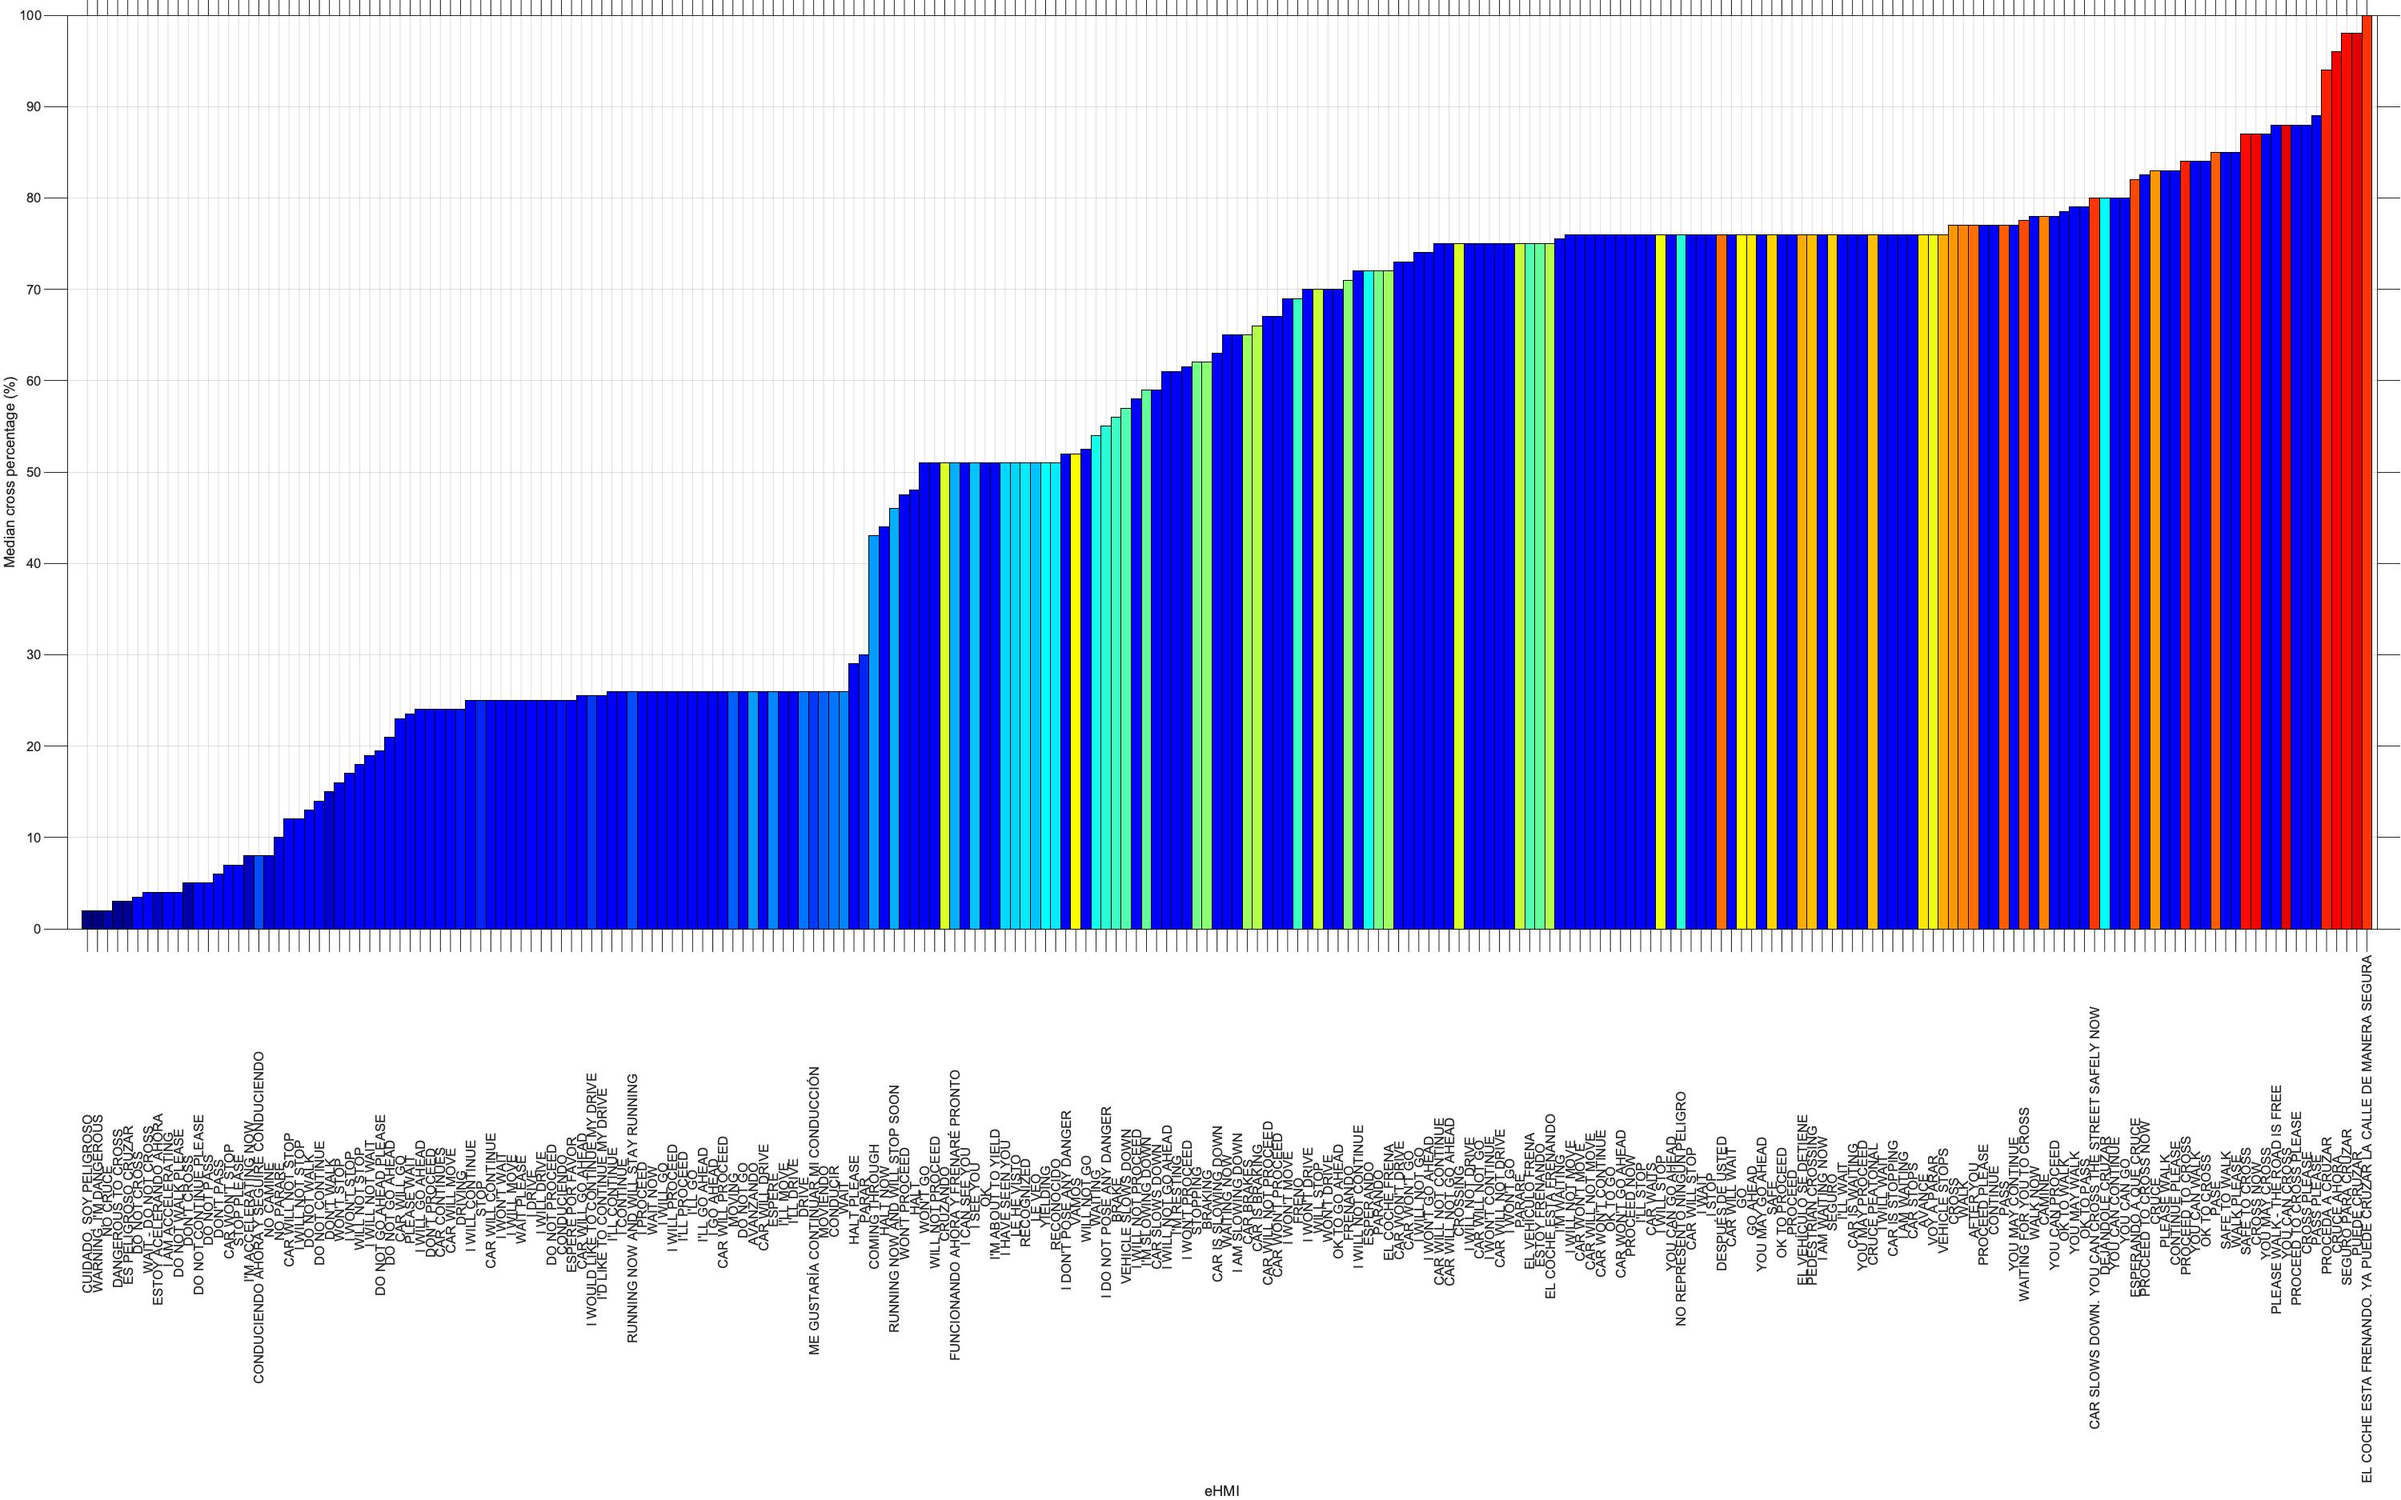
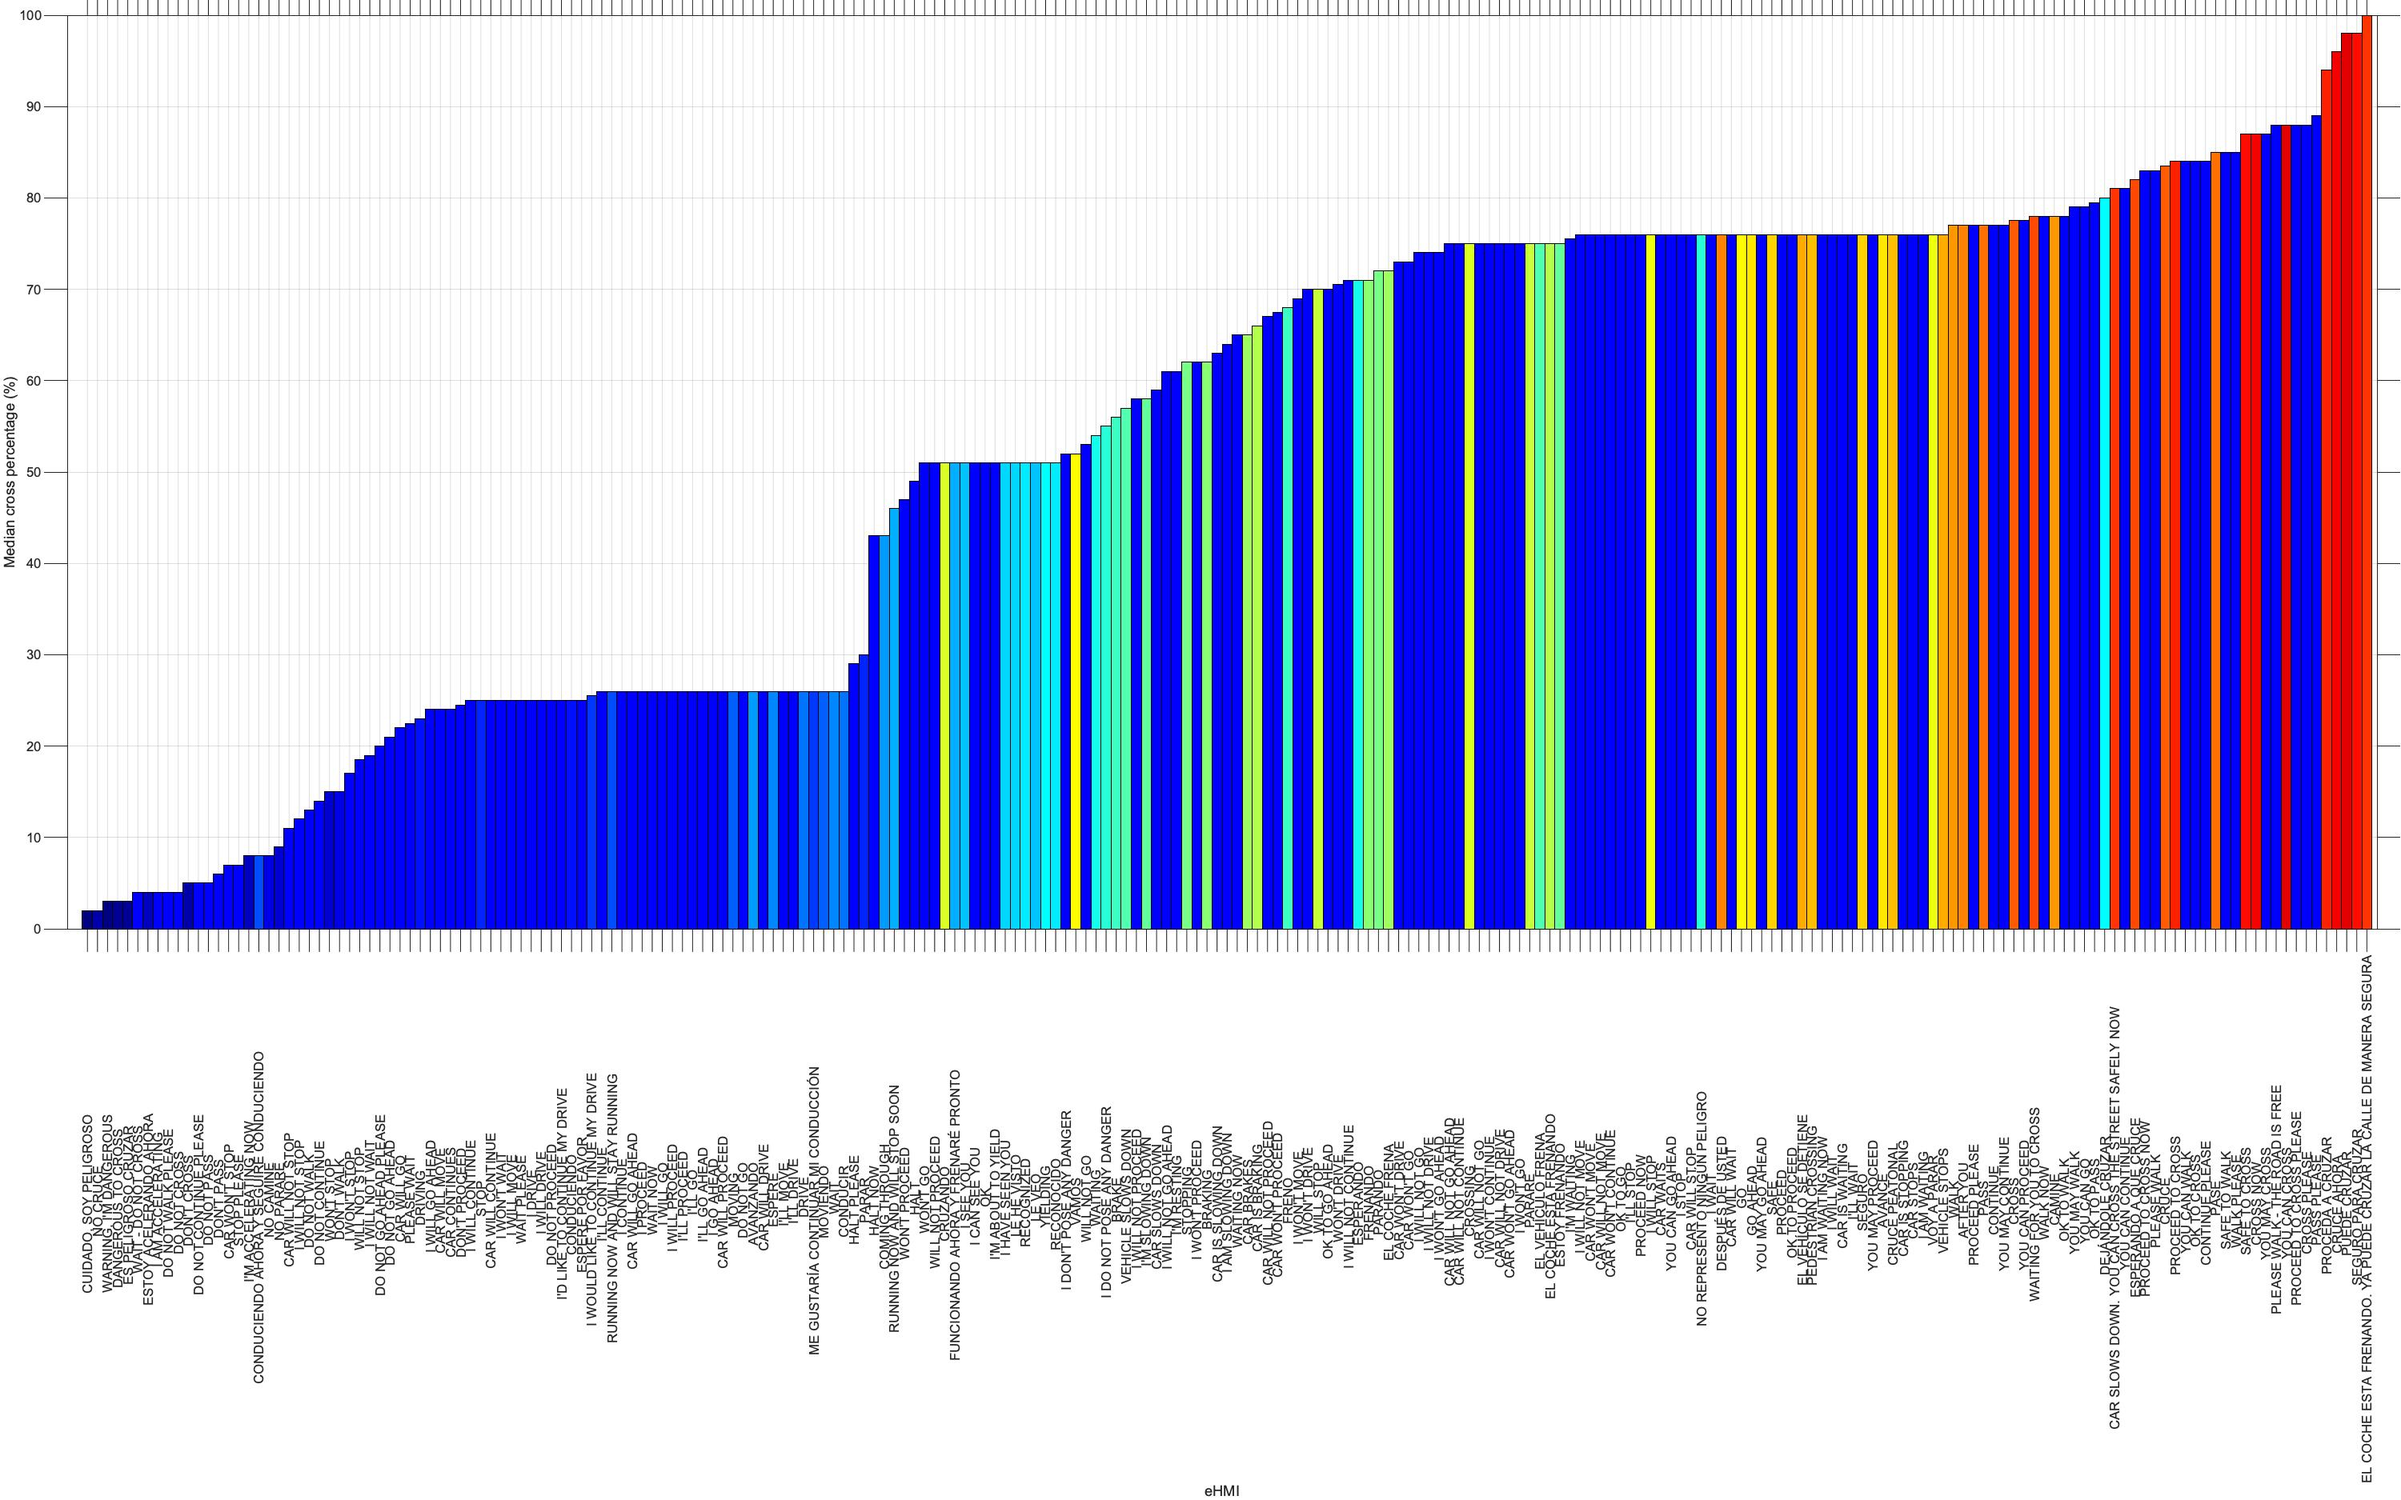
Error with dropping row0 column
- Updated figures

diff --git a/textehmi/analysis/analysis.m b/textehmi/analysis/analysis.m
@@ -15,7 +15,7 @@ COLOUR_SAME_EHMI = true;  % flag for colouring eHMI in ES/EN on figures
 
 %% ************************************************************************
 %% Load config
-%% ************************************************************************
+%% **************************there**********************************************
 config = jsondecode(fileread('../../config'));
 
 %% ************************************************************************
@@ -250,9 +250,9 @@ set(gca, 'LooseInset', [0.01 0.01 0.01 0.01], ...
 if config.save_figures
 % maximise and export as eps and jpg (for readme)
     export_figure(gcf, [config.path_output filesep 'figures' ...
-                        filesep 'median-cross-en-es'], 'epsc')
+                        filesep 'ehmis-en-es'], 'epsc')
     export_figure(gcf, [config.path_figures ...
-                        filesep 'median-cross-en-es'], 'jpg')
+                        filesep 'ehmis-en-es'], 'jpg')
 end
 
 %% Median willingness to cross for all stimuli

diff --git a/textehmi/analysis/appen.py b/textehmi/analysis/appen.py
@@ -103,7 +103,10 @@ class Appen:
             # load from csv
             df = pd.read_csv(self.file_data)
             # drop code with data row
-            df = df.drop('row0', axis=1)
+            try:
+                df = df.drop('row0', axis=1)
+            except Exception:
+                logger.info('row0 column not found in appen data.')
             # drop _gold columns
             df = df.drop((x for x in df.columns.tolist() if '_gold' in x),
                          axis=1)

diff --git a/README.md b/README.md
@@ -44,8 +44,8 @@ Mean willingness to cross.
 ![median willingness to sd willingness to cross](https://github.com/bazilinskyy/text-crowdsourced/blob/main/figures/scatter-text-en-median.jpg?raw=true)
 Median willingness to cross over SD of willingness to cross of eHMIs in English. Colours denote the type of eHMIs: green=egocentric, black=allocentric, red=egocentric and allocentric.
 
-![ehmis in english and spanish](https://github.com/bazilinskyy/text-crowdsourced/blob/main/figures/median-cross-en-es.jpg?raw=true)
-Median willingness to cross for eHMIs presented in both English and Spanish.
+![ehmis in english and spanish](https://github.com/bazilinskyy/text-crowdsourced/blob/main/figures/ehmis-en-es.jpg?raw=true)
+Mean willingness to cross for eHMIs presented in both English and Spanish.
 
 ![median willingness to cross](https://github.com/bazilinskyy/text-crowdsourced/blob/main/figures/median-cross.jpg?raw=true)
 Median willingness to cross. Colours show stimuli that were presented in both English and Spanish.
